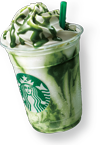
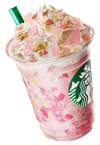
product image change and curve color change functionality added

diff --git a/index.html b/index.html
@@ -37,24 +37,52 @@
                 </div>
                 <div class="imgBox">
                     <img
-                        src="img1.png"
+                        src="img2.png"
                         alt="Starbucks product"
                         class="starbucks"
                     />
                 </div>
             </div>
             <ul class="thumb">
-                <li><img src="thumb1.png" alt="starbucks product" /></li>
-                <li><img src="thumb2.png" alt="starbucks product" /></li>
-                <li><img src="thumb3.png" alt="starbucks product" /></li>
+                <li>
+                    <img
+                        src="thumb1.png"
+                        alt="starbucks product"
+                        onclick="imgSlider('img1.png');changeCircleColor('#eb7495')"
+                    />
+                </li>
+                <li>
+                    <img
+                        src="thumb2.png"
+                        alt="starbucks product"
+                        onclick="imgSlider('img2.png');changeCircleColor('#017143')"
+                    />
+                </li>
+                <li>
+                    <img
+                        src="thumb3.png"
+                        alt="starbucks product"
+                        onclick="imgSlider('img3.png');changeCircleColor('#d752b1')"
+                    />
+                </li>
             </ul>
             <ul class="sci">
-               <li><a href="#"><img src="facebook.png" alt="facebook icon"></a></li>
-               <li><a href="#"><img src="twitter.png" alt="twitter icon"></a></li>
-               <li><a href="#"><img src="instagram.png" alt="instagram icon"></a></li>
+                <li>
+                    <a href="#"
+                        ><img src="facebook.png" alt="facebook icon"
+                    /></a>
+                </li>
+                <li>
+                    <a href="#"><img src="twitter.png" alt="twitter icon" /></a>
+                </li>
+                <li>
+                    <a href="#"
+                        ><img src="instagram.png" alt="instagram icon"
+                    /></a>
+                </li>
             </ul>
         </section>
 
-        <script type="text/javascript"></script>
+        <script type="text/javascript" src="app.js"></script>
     </body>
 </html>

diff --git a/app.js b/app.js
@@ -1,0 +1,8 @@
+function imgSlider(product) {
+    document.querySelector('.starbucks').src = product;
+}
+
+function changeCircleColor(color) {
+    const circle = document.querySelector('.circle');
+    circle.style.background = color;
+}
